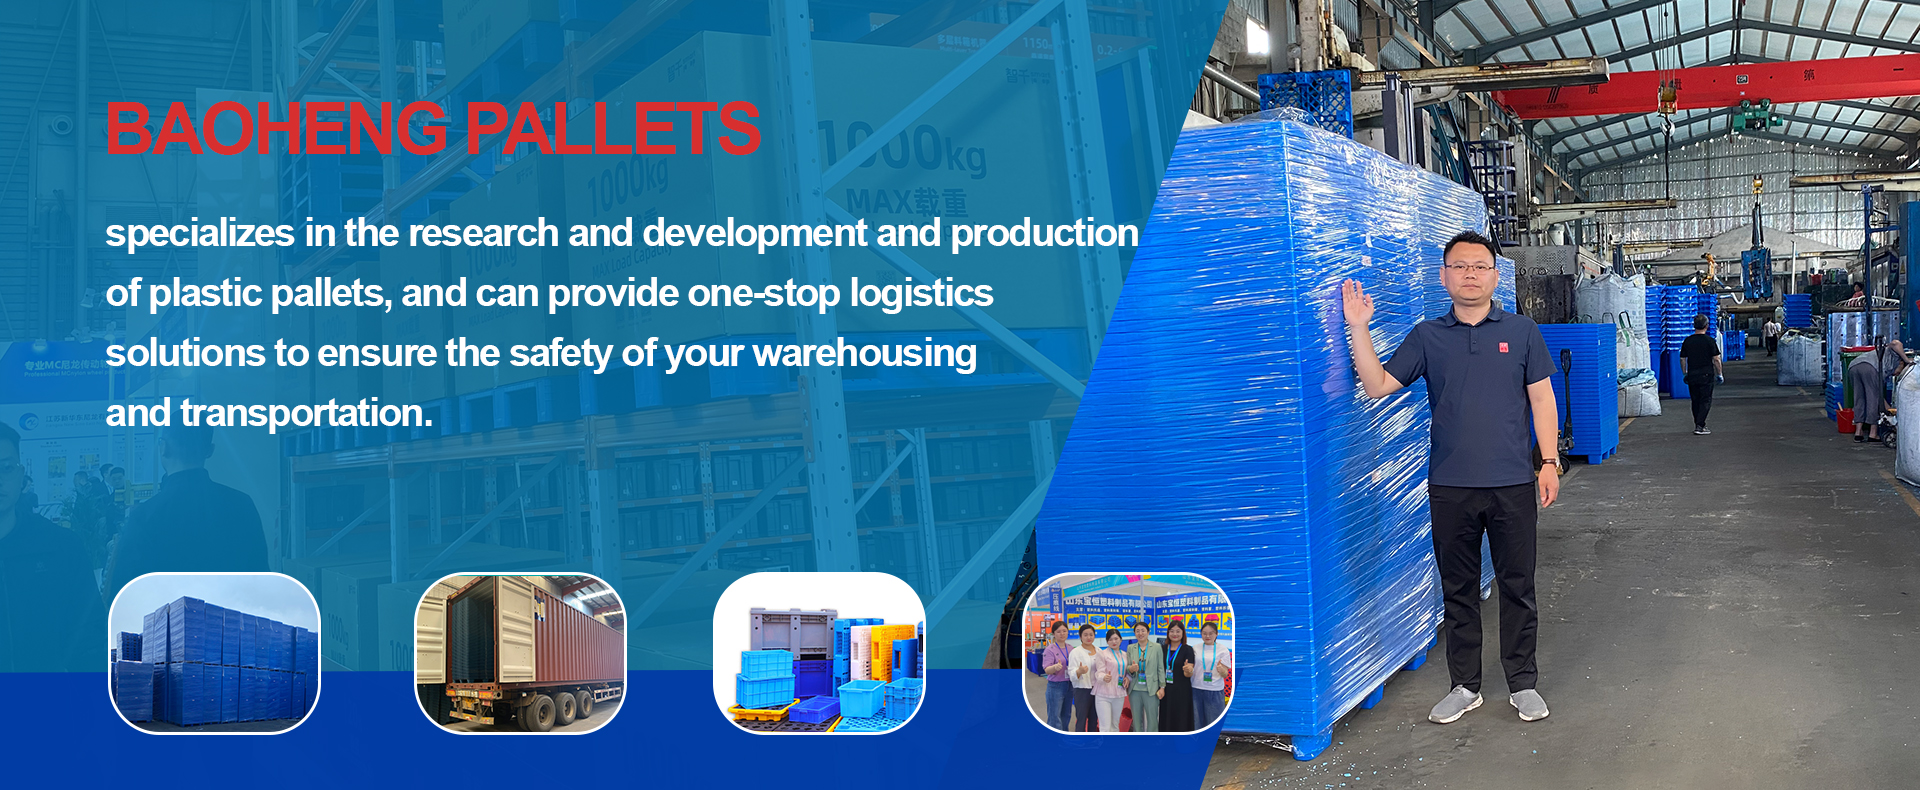
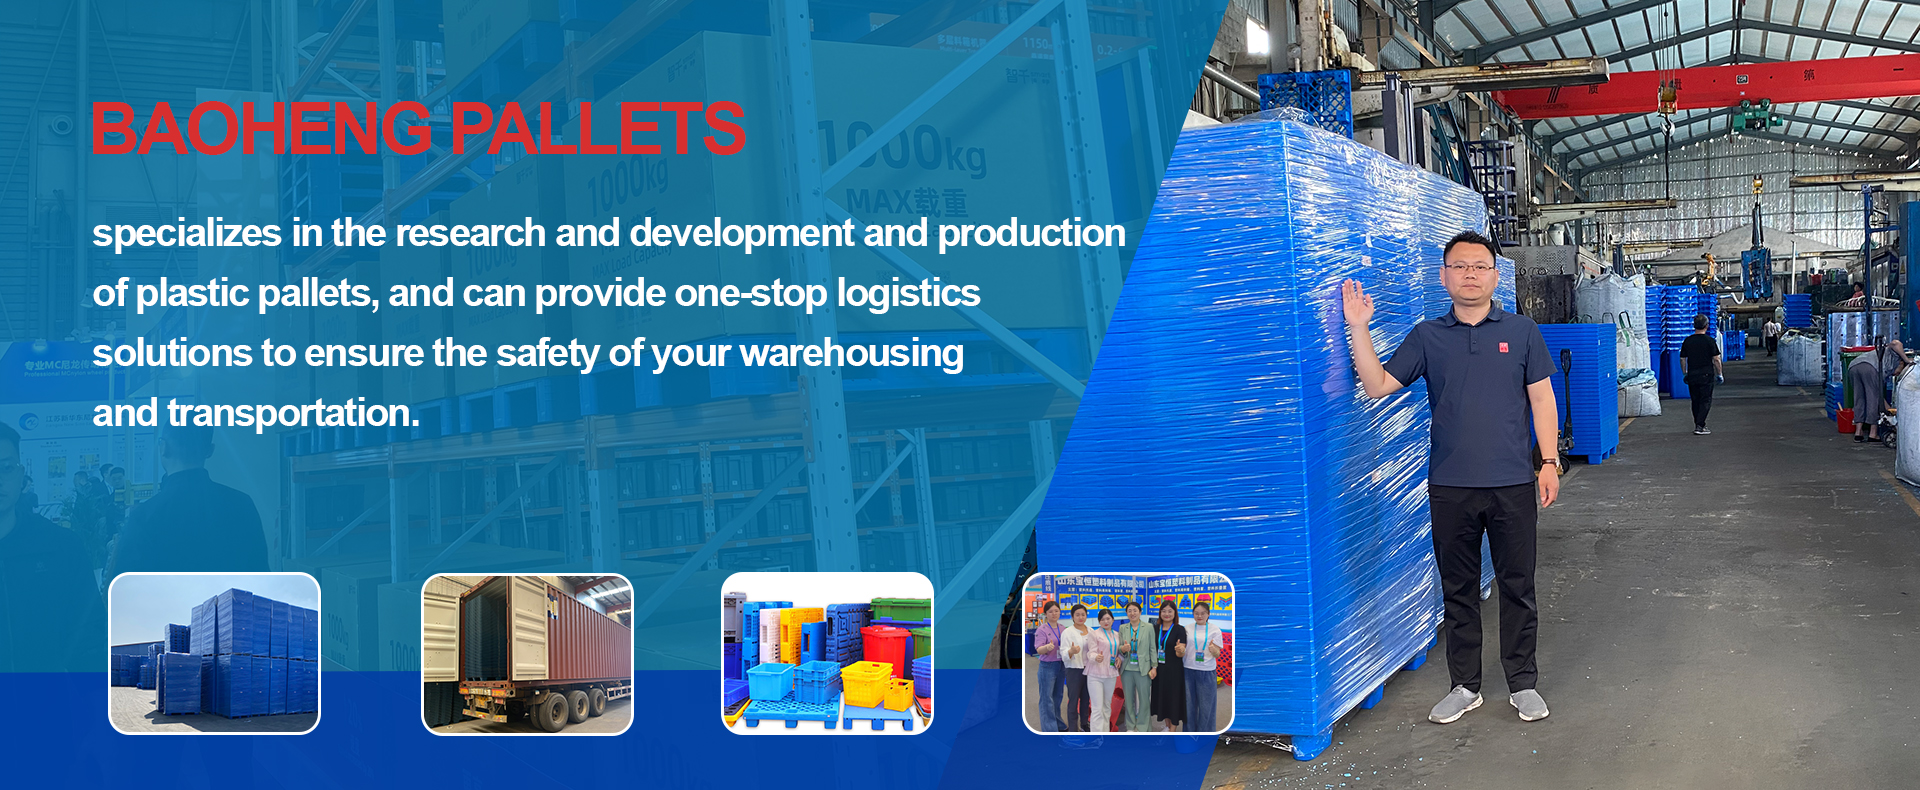
ups

diff --git a/public/index.html b/public/index.html
@@ -464,16 +464,16 @@
 <header class="hero hero--home hero--center hero--bleed" aria-labelledby="hero-h">
   
   <div class="hero__bg" aria-hidden="true">
-    <picture style='display:block;background:#f3f4f6 url("/images/hero-bg_hu_b3da9ad48a76c989.webp") center/cover no-repeat;'>
+    <picture style='display:block;background:#f3f4f6 url("/images/hero-bg_hu_f77afc8d6c133d32.webp") center/cover no-repeat;'>
     <source type="image/avif"
-            srcset='/images/hero-bg_hu_761fd890e2abdc62.jpg 1920w'
+            srcset='/images/hero-bg_hu_950b92c4d4ccbf32.jpg 1920w'
             sizes="100vw">
     <source type="image/webp"
-            srcset='/images/hero-bg_hu_1344245c32a52265.webp 1920w'
+            srcset='/images/hero-bg_hu_823970d23a46cd3a.webp 1920w'
             sizes="100vw">
     <img
-      src='/images/hero-bg_hu_75b1bc57dfc18195.jpg'
-      srcset='/images/hero-bg_hu_75b1bc57dfc18195.jpg 1920w'
+      src='/images/hero-bg_hu_cf911ba251548ca8.jpg'
+      srcset='/images/hero-bg_hu_cf911ba251548ca8.jpg 1920w'
       sizes='100vw'
       alt='Baoheng Plastic'
       width='1920' height='790'
@@ -481,7 +481,7 @@
       loading='eager'
       decoding='auto'fetchpriority="high"class='hero__img'
     >
-    <noscript><img src='/images/hero-bg_hu_75b1bc57dfc18195.jpg' alt='Baoheng Plastic' width='1920' height='790' class='hero__img'></noscript>
+    <noscript><img src='/images/hero-bg_hu_cf911ba251548ca8.jpg' alt='Baoheng Plastic' width='1920' height='790' class='hero__img'></noscript>
   </picture>
   </div>
 
@@ -495,11 +495,7 @@
       
         <p class="hero__desc"> </p>
       
-      <div class="hero__actions">
-        <a class="button button--primary" href="/products">
-          View products
-        </a>
-      </div>
+      
     </div>
   </div>
 </header>
@@ -507,7 +503,7 @@
 
 
 <section class="home-usps">
-  <div class="container usp-grid">
+  <div class="usp-grid">
     
       <div class="usp-card">
         <div class="usp-icon">
@@ -542,18 +538,6 @@
         <div class="usp-body">
           <h3>Multi-scenario Ready</h3>
           <p>Suitable for warehouse racking and cold-chain logistics</p>
-        </div>
-      </div>
-    
-      <div class="usp-card">
-        <div class="usp-icon">
-          
-          <img src="/images/icons/iso.jpg" alt="" aria-hidden="true">
-          
-        </div>
-        <div class="usp-body">
-          <h3>Flexible Customization</h3>
-          <p>OEM/ODM customization available</p>
         </div>
       </div>
     

diff --git a/public/scss/main.css b/public/scss/main.css
@@ -578,7 +578,7 @@ body[data-drawer-open='true'] {
   /* 遮罩（基色+强度） */
   --hero-overlay-base: var(--on-brand);
   /* 遮罩基色，默认用全局品牌色 */
-  --hero-overlay-alpha: 0.1;
+  --hero-overlay-alpha: 0;
   /* 0~1 越大越暗 */
   --hero-overlay-angle: 0deg;
   /* 渐变角度 */
@@ -709,9 +709,14 @@ body[data-drawer-open='true'] {
     font-size: var(--fs-1); } }
 
 /* Home: USPs（令牌版） */
+.home-usps {
+  background: #ebebeb;
+  padding: sapce(2); }
+
 .usp-grid {
   display: grid;
   gap: calc(var(--space) * 2);
+  padding: 0 128px;
   padding-block: calc(var(--space) * 3);
   grid-template-columns: repeat(auto-fit, minmax(220px, 1fr)); }
 
@@ -719,10 +724,7 @@ body[data-drawer-open='true'] {
   display: flex;
   align-items: flex-start;
   gap: calc(var(--space) * 1.5);
-  background: var(--card);
-  border-radius: var(--radius);
   padding: calc(var(--space) * 2);
-  box-shadow: var(--shadow);
   transition: transform var(--t-fast) var(--ease), box-shadow var(--t-normal) var(--ease); }
 
 .usp-card h3,
@@ -731,13 +733,8 @@ body[data-drawer-open='true'] {
   font-size: var(--fs-1); }
 
 .usp-icon img {
-  inline-size: 40px;
-  block-size: 40px; }
-
-.usp-icon .emoji {
-  font-size: var(--fs-4);
-  line-height: 1;
-  display: inline-block; }
+  inline-size: 100px;
+  block-size: 100px; }
 
 /* Home: Featured products */
 .home-featured .head {

diff --git a/public/zh/index.html b/public/zh/index.html
@@ -495,11 +495,7 @@
       
         <p class="hero__desc"> </p>
       
-      <div class="hero__actions">
-        <a class="button button--primary" href="/zh/products">
-          View products
-        </a>
-      </div>
+      
     </div>
   </div>
 </header>
@@ -507,7 +503,7 @@
 
 
 <section class="home-usps">
-  <div class="container usp-grid">
+  <div class="usp-grid">
     
       <div class="usp-card">
         <div class="usp-icon">
@@ -542,18 +538,6 @@
         <div class="usp-body">
           <h3>多场景适配</h3>
           <p>仓储货架，冷链物流</p>
-        </div>
-      </div>
-    
-      <div class="usp-card">
-        <div class="usp-icon">
-          
-          <img src="/images/icons/iso.jpg" alt="" aria-hidden="true">
-          
-        </div>
-        <div class="usp-body">
-          <h3>灵活定制</h3>
-          <p>支持 OEM/ODM 定制。</p>
         </div>
       </div>
     

diff --git a/assets/scss/home/_usps.scss b/assets/scss/home/_usps.scss
@@ -1,7 +1,12 @@
 /* Home: USPs（令牌版） */
+.home-usps {
+  background: #ebebeb;
+  padding: sapce(2);
+}
 .usp-grid {
   display: grid;
   gap: space(2); 
+  padding: 0 128px;
   padding-block: space(3); 
   grid-template-columns: repeat(auto-fit, minmax(220px, 1fr));
 }
@@ -10,12 +15,7 @@
   display: flex;
   align-items: flex-start;
   gap: space(1.5); 
-
-  background: var(--card);
-  border-radius: var(--radius);
   padding: space(2); 
-  box-shadow: var(--shadow);
-
   transition:
     transform var(--t-fast) var(--ease),
     box-shadow var(--t-normal) var(--ease);
@@ -28,11 +28,6 @@
 }
 
 .usp-icon img {
-  inline-size: 40px;
-  block-size: 40px;
-}
-.usp-icon .emoji {
-  font-size: var(--fs-4); 
-  line-height: 1;
-  display: inline-block;
+  inline-size: 100px;
+  block-size: 100px;
 }

diff --git a/layouts/partials/home/hero.html b/layouts/partials/home/hero.html
@@ -23,11 +23,11 @@
       {{ with or .Params.hero_description (or .Description .Params.description) }}
         <p class="hero__desc">{{ . }}</p>
       {{ end }}
-      <div class="hero__actions">
+      <!-- <div class="hero__actions">
         <a class="button button--primary" href="{{ "products" | relLangURL }}">
           {{ i18n "view_products" | default "View products" }}
         </a>
-      </div>
+      </div> -->
     </div>
   </div>
 </header>

diff --git a/assets/scss/home/_hero.scss b/assets/scss/home/_hero.scss
@@ -7,7 +7,7 @@
 
   /* 遮罩（基色+强度） */
   --hero-overlay-base: var(--on-brand);    /* 遮罩基色，默认用全局品牌色 */
-  --hero-overlay-alpha: 0.1;            /* 0~1 越大越暗 */
+  --hero-overlay-alpha: 0;            /* 0~1 越大越暗 */
   --hero-overlay-angle: 0deg;           /* 渐变角度 */
 
   /* 文案与排版 */

diff --git a/layouts/partials/home/usps.html b/layouts/partials/home/usps.html
@@ -2,7 +2,7 @@
 {{ $list := (index site.Data.usps $lang) | default (slice) }}
 
 <section class="home-usps">
-  <div class="container usp-grid">
+  <div class="usp-grid">
     {{ range $list }}
       <div class="usp-card">
         <div class="usp-icon">
